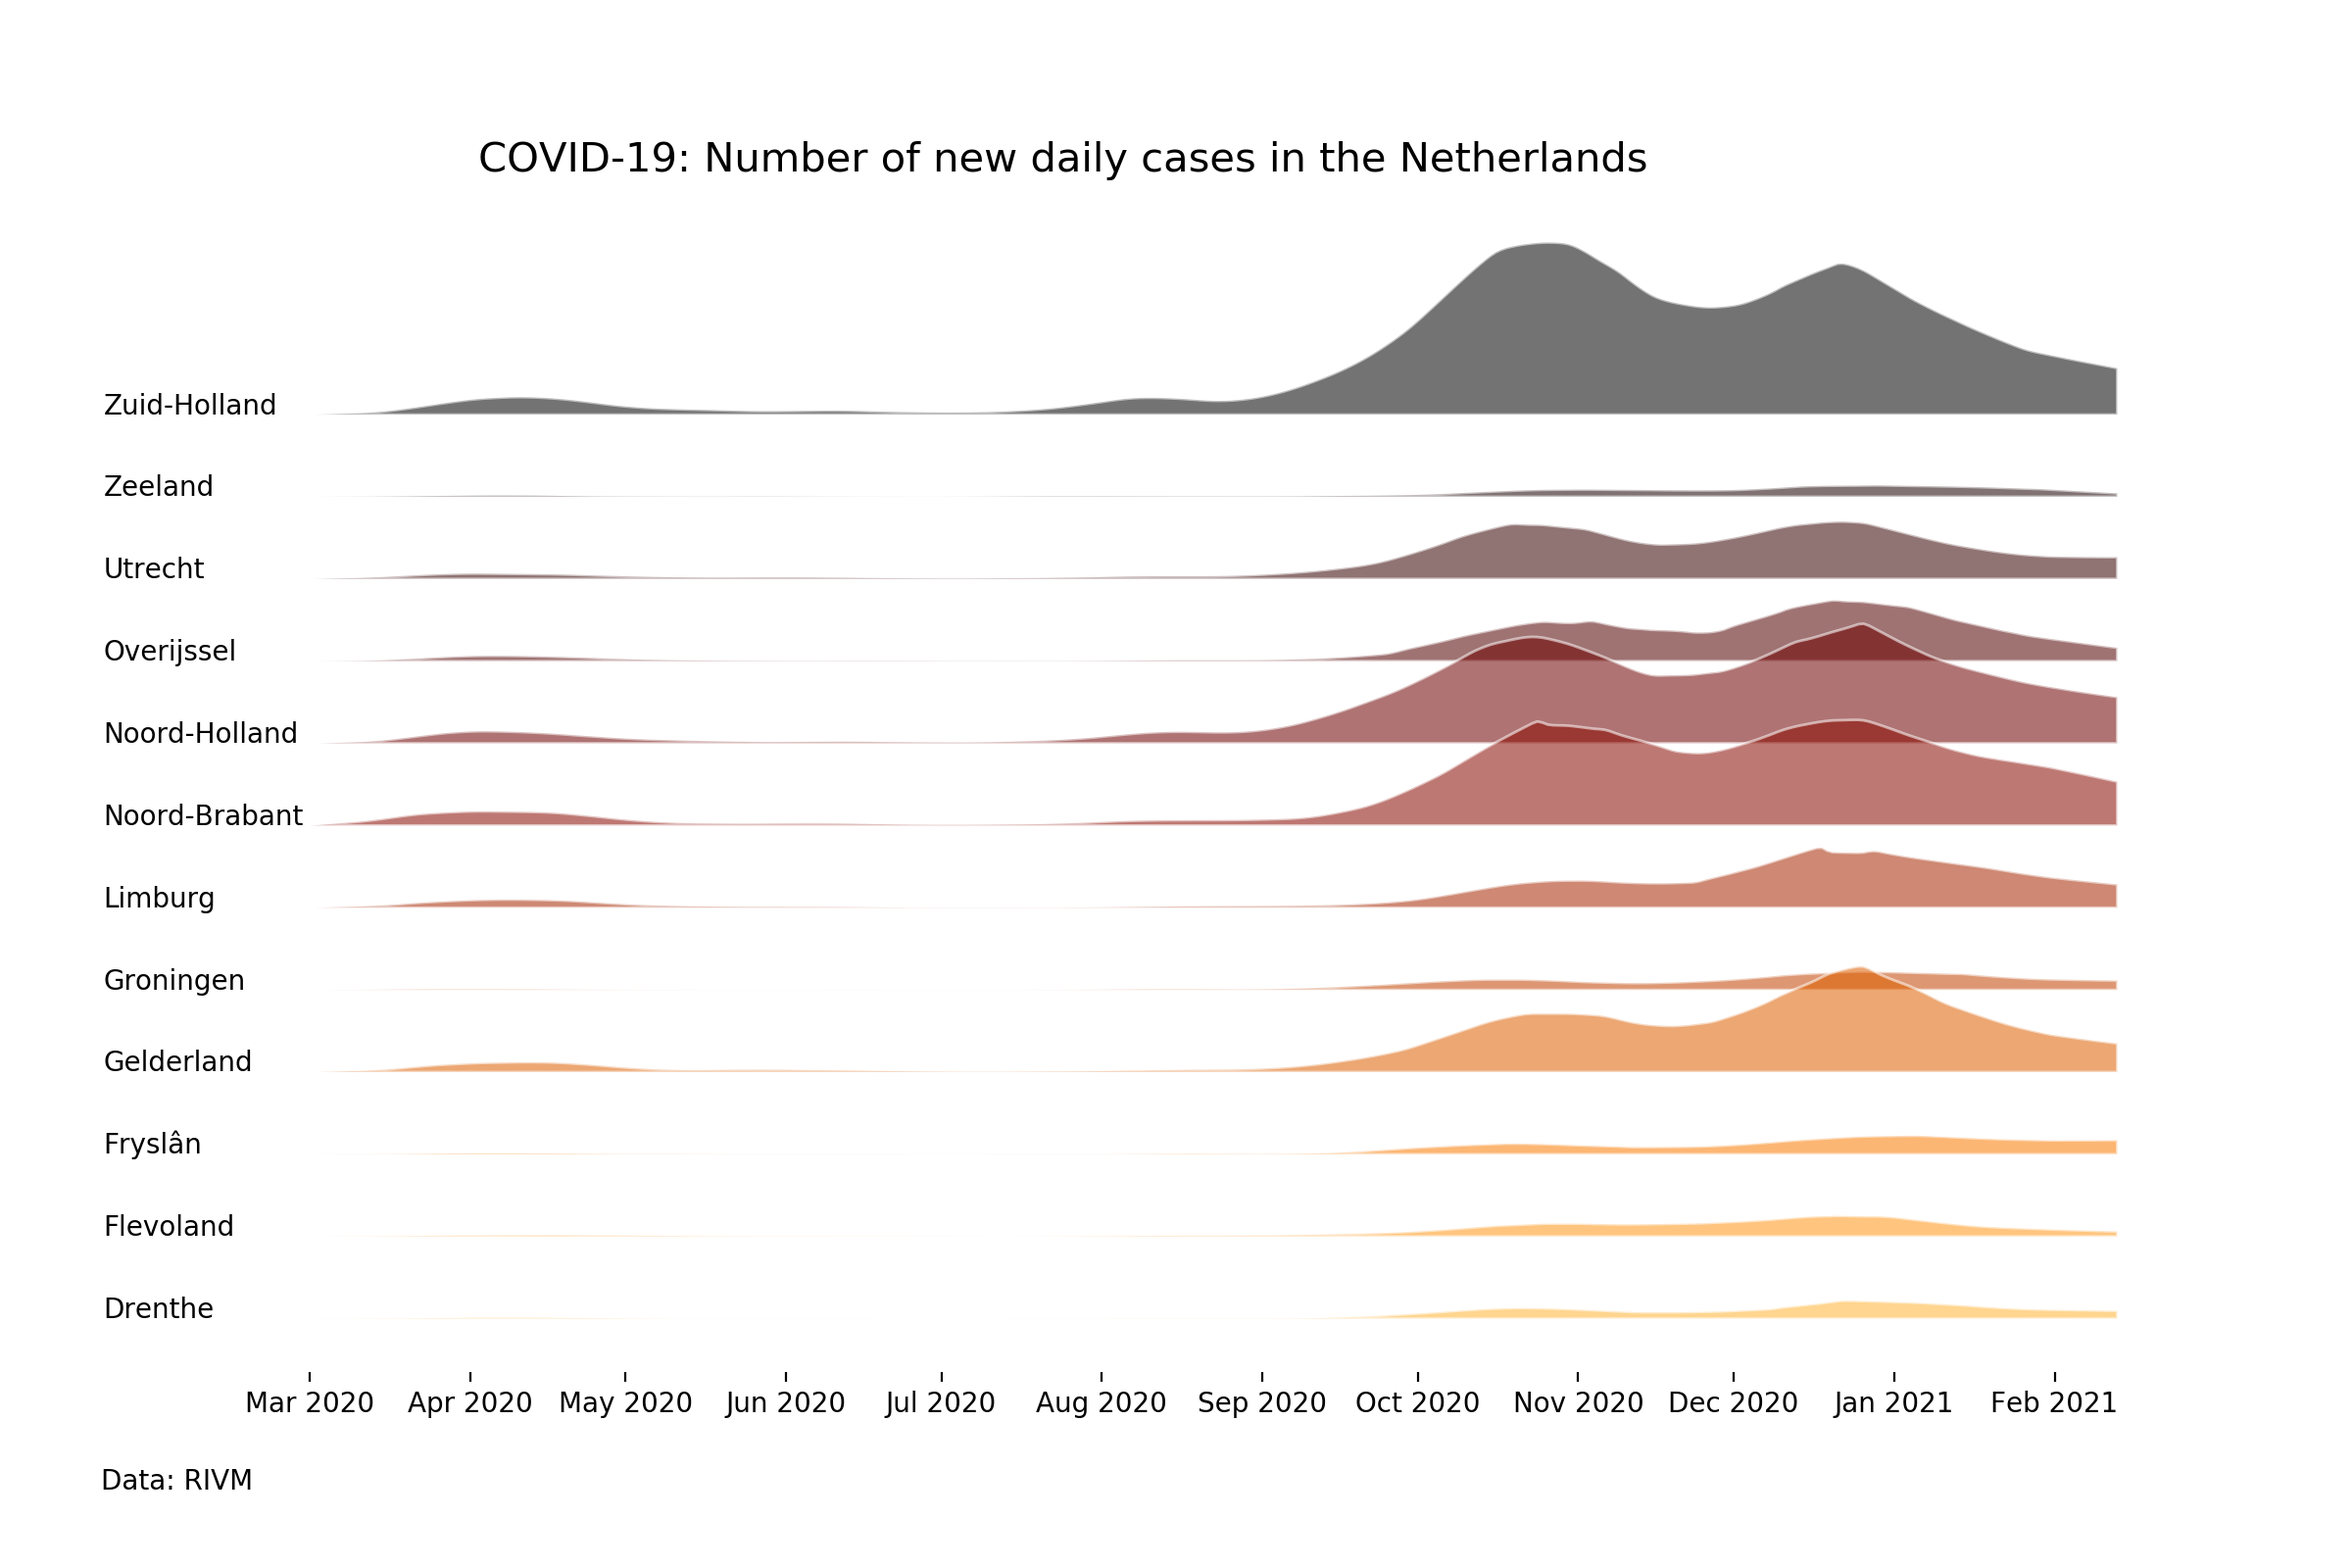
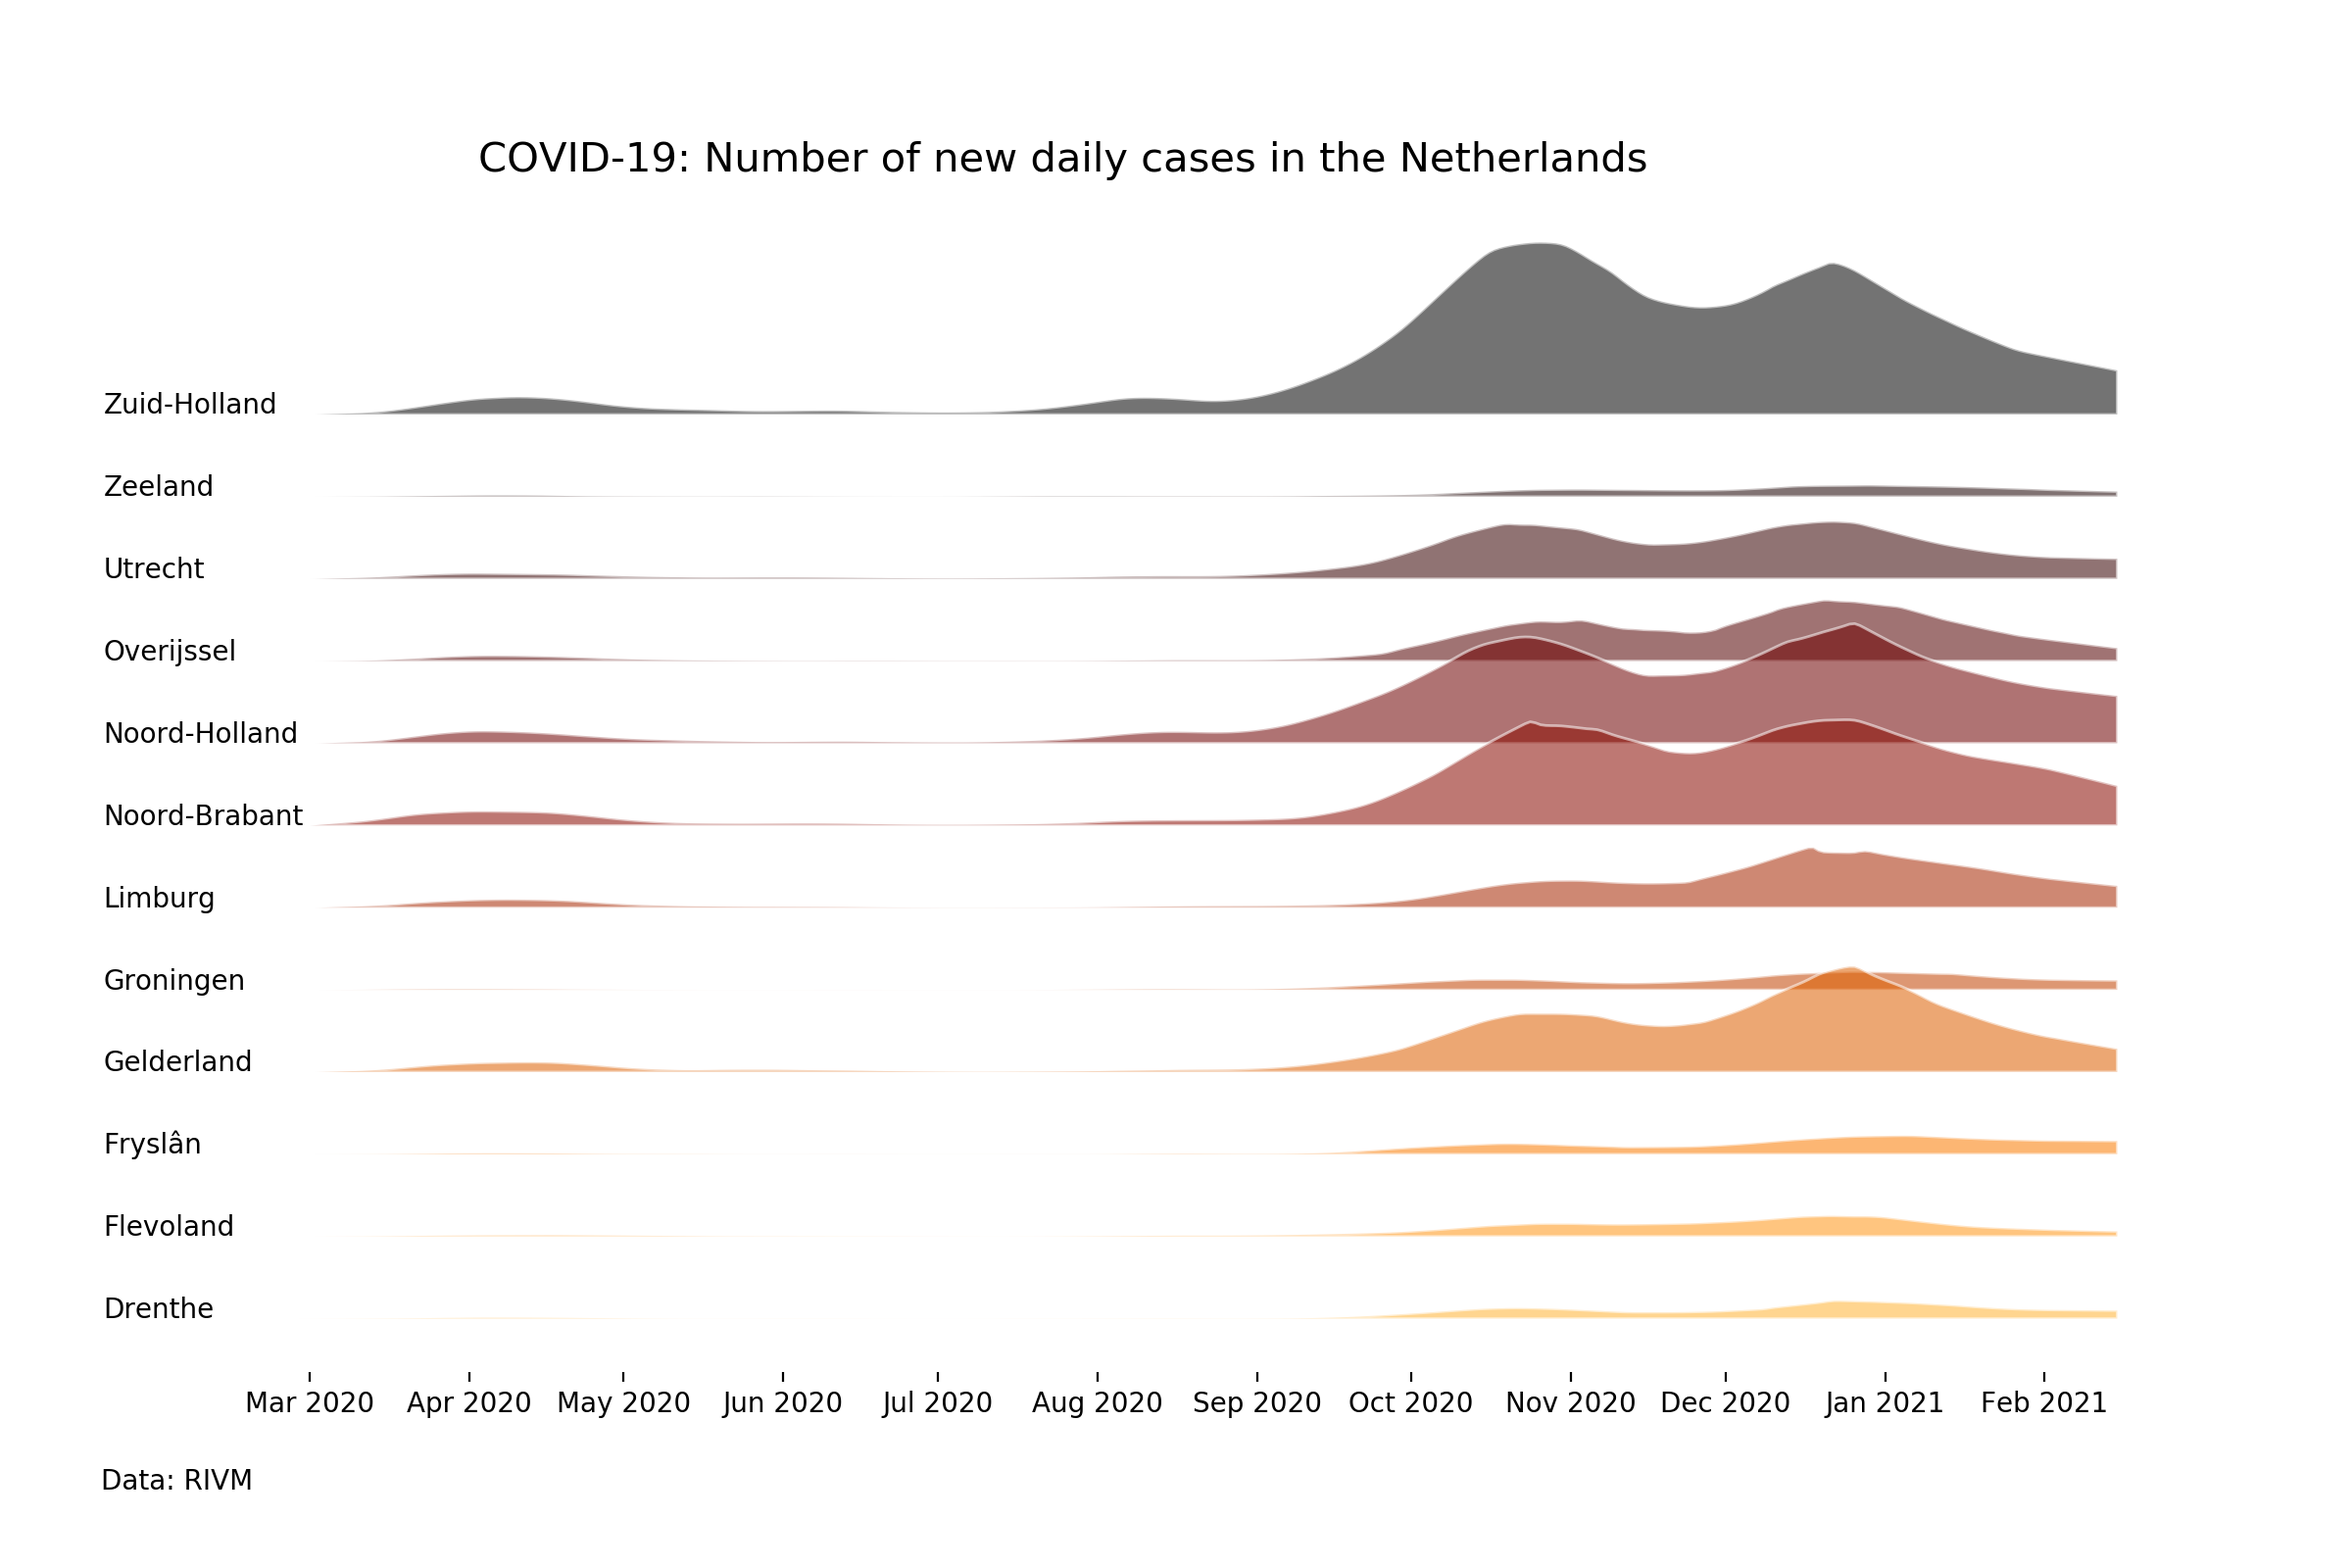
only return axis

diff --git a/create_charts.py b/create_charts.py
@@ -1,5 +1,7 @@
 import pandas as pd
 from ridgeline import ridgeline
+import matplotlib.pyplot as plt
+import matplotlib.dates as mdates
 
 
 # Import data
@@ -13,52 +15,62 @@ df_raw.columns= df_raw.columns.str.lower()
 df = df_raw.groupby(['date_of_publication', 'province']).sum().reset_index()
 
 # Create ridgeline plot for daily cases
-fig, ax = ridgeline(df, 
-                    col_time='date_of_publication',
-                    col_group='province',
-                    col_value='total_reported',
-                    dt_format="%b %Y",
-                    title="COVID-19: Number of new daily cases in the Netherlands                      ",
-                    norm='overall',
-                    frac=.08,
-                    scale=3,
-                    note=(0.043, 0.05, "Data: RIVM"),
-                    cmap='afmhot',
-                    alpha=.55,
-                    linspace=(0,.6))
+fig, ax = plt.subplots(figsize=(12,8))
+ax = ridgeline(df, 
+               ax=ax,
+               col_time='date_of_publication',
+               col_group='province',
+               col_value='total_reported',
+               norm='overall',
+               frac=.08,
+               scale=3,
+               colormap='afmhot',
+               alpha=.55,
+               linspace=(0,.6))
 
+ax.xaxis.set_major_formatter(mdates.DateFormatter('%b %Y'))
+plt.title("COVID-19: Number of new daily cases in the Netherlands                      ", 
+          color='black',fontsize=15,fontweight='roman',loc='center')
+fig.text(0.043, 0.05, "Data: RIVM")
 fig.savefig('./cases.png', dpi=200)
 
-# Create ridgeline plot for deaths
-fig, ax = ridgeline(df, 
-                    col_time='date_of_publication',
-                    col_group='province',
-                    col_value='deceased',
-                    dt_format="%b %Y",
-                    title="COVID-19: Number of deaths in the Netherlands             ",
-                    norm='overall',
-                    frac=.08,
-                    scale=4,
-                    note=(0.043, 0.05, "Data: RIVM"),
-                    cmap='afmhot',
-                    alpha=.55,
-                    linspace=(0,.6))
 
+# Create ridgeline plot for deaths
+fig, ax = plt.subplots(figsize=(12,8))
+ax = ridgeline(df, 
+               ax=ax,
+               col_time='date_of_publication',
+               col_group='province',
+               col_value='deceased',
+               norm='overall',
+               frac=.08,
+               scale=4,
+               colormap='afmhot',
+               alpha=.55,
+               linspace=(0,.6))
+
+ax.xaxis.set_major_formatter(mdates.DateFormatter('%b %Y'))
+plt.title("COVID-19: Number of deaths in the Netherlands             ", 
+          color='black',fontsize=15,fontweight='roman',loc='center')
+fig.text(0.043, 0.05, "Data: RIVM")
 fig.savefig('./deaths.png', dpi=200)
 
 # Create ridgeline plot for hospital admissions
-fig, ax = ridgeline(df, 
-                    col_time='date_of_publication',
-                    col_group='province',
-                    col_value='hospital_admission',
-                    dt_format="%b %Y",
-                    title="COVID-19: Number of hospital admissions in the Netherlands              ",
-                    norm='overall',
-                    frac=.08,
-                    scale=6.5,
-                    note=(0.043, 0.05, "Data: RIVM"),
-                    cmap='afmhot',
-                    alpha=.55,
-                    linspace=(0,.6))
+fig, ax = plt.subplots(figsize=(12,8))
+ax = ridgeline(df, 
+               ax=ax,
+               col_time='date_of_publication',
+               col_group='province',
+               col_value='hospital_admission',
+               norm='overall',
+               frac=.08,
+               scale=6.5,
+               colormap='afmhot',
+               alpha=.55,
+               linspace=(0,.6))
 
+ax.xaxis.set_major_formatter(mdates.DateFormatter('%b %Y'))
+plt.title("COVID-19: Number of hospital admissions in the Netherlands              ", 
+          color='black',fontsize=15,fontweight='roman',loc='center')
+fig.text(0.043, 0.05, "Data: RIVM")
 fig.savefig('./hospitalizations.png', dpi=200)

diff --git a/ridgeline.py b/ridgeline.py
@@ -1,33 +1,29 @@
 import numpy as np
 import matplotlib.pyplot as plt
 import statsmodels.api as sm
-import matplotlib.dates as mdates
 import pandas as pd
 
 
 def ridgeline(dataframe, 
+              ax,
               col_time, 
               col_group, 
               col_value,
-              dt_format,
-              title='', 
-              title_loc='center',
               norm='overall', 
               frac=.1, 
               scale=3,
-              note=None,
-              figsize=(12,8),
               colormap='autumn',
               alpha=.5,
               linspace=(0,1),
-              sort_groups=None):
+              sort_groups=None,
+              labeloffset=-70):
     '''
     Create ridgeline plots for grouped data over time
 
         Parameters:
             dataframe (pd.DataFrame): pandas dataframe with time column, group column
                                       and value column
-            col_time        (string): time column name, needs to be pd.datetime
+            col_time        (string): time column name, needs to be pd.datetime or numeric
             col_group       (string): group column name, column dtype must be string
             col_value       (string): value column name
             title           (string): chart title
@@ -43,8 +39,9 @@ def ridgeline(dataframe,
             linspace         (tuple): set range of colormap to use; between 0 and 1
             dt_format       (string): datetime format
             sort_groups       (list): sorted list of groups to include
+            labeloffset      (float): horizontal label affset
         Returns:
-            fig, ax          (tuple): matplotlib fig and ax
+            ax          (tuple): matplotlib ax
     '''
     
     # Copy df
@@ -79,9 +76,6 @@ def ridgeline(dataframe,
     # Create columns for plotting
     df['smoothed_norm_plot'] = df.smoothed_norm + df.group_id
     df['norm_plot'] = df.norm + df.group_id
-                         
-    # Create figure
-    fig, ax = plt.subplots(figsize=figsize)
     
     # Get colormap
     clmap = plt.get_cmap(colormap)
@@ -108,17 +102,16 @@ def ridgeline(dataframe,
         plt.annotate(group, 
                      xy=(df[col_time].min(), df_sub.group_id.min()), 
                      textcoords='offset points', 
-                     xytext=(-70,0))
+                     xytext=(labeloffset,0))
     
-    # Figure formatting
-    ax.axes.get_yaxis().set_visible(False)
-    plt.box(on=None)
+    # Formatting
+    ax.spines['top'].set_visible(False)
+    ax.spines['right'].set_visible(False)
+    ax.spines['bottom'].set_visible(False)
+    ax.spines['left'].set_visible(False)
     ax.set_xlim([df[col_time].min(), df[col_time].max()])
-    ax.xaxis.set_major_formatter(mdates.DateFormatter(dt_format))
-    plt.title(title, color='black',fontsize=15,fontweight='roman',loc=title_loc)
-    if note is not None:
-        fig.text(note[0], note[1], note[2])
+    ax.axes.get_yaxis().set_visible(False)
         
     del df
         
-    return fig, ax
+    return ax
